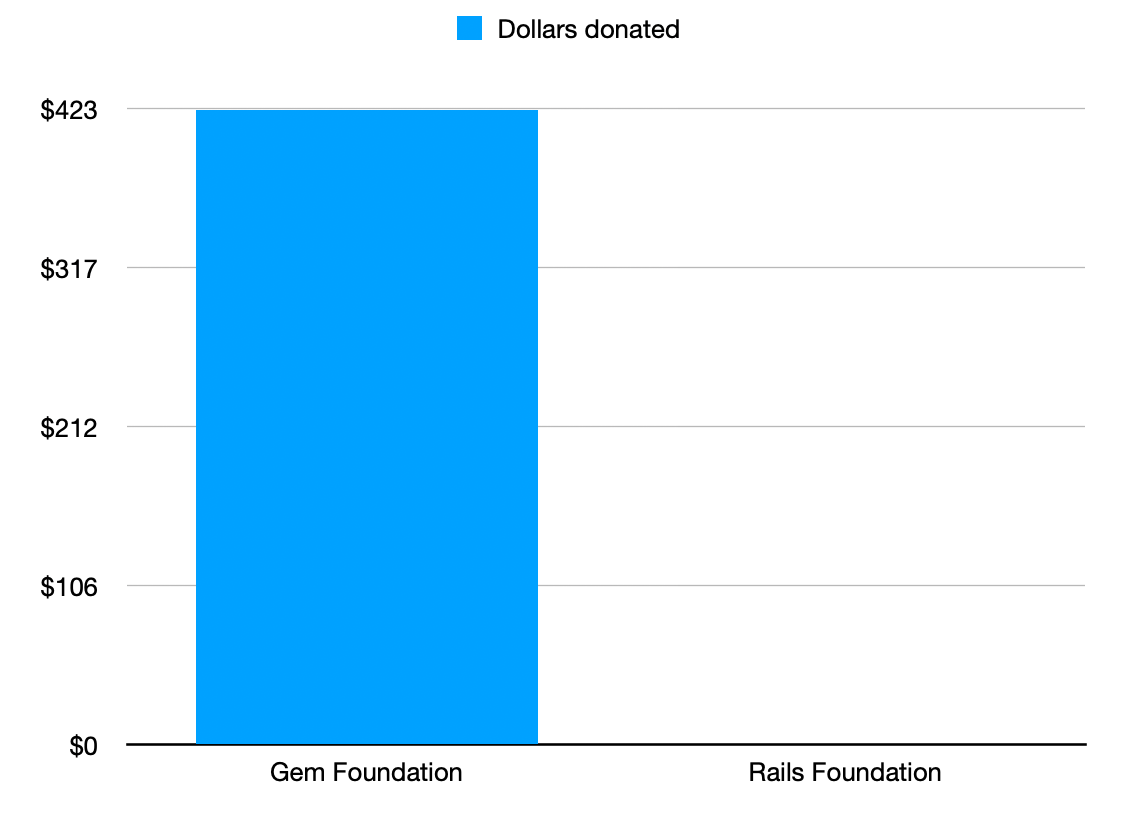
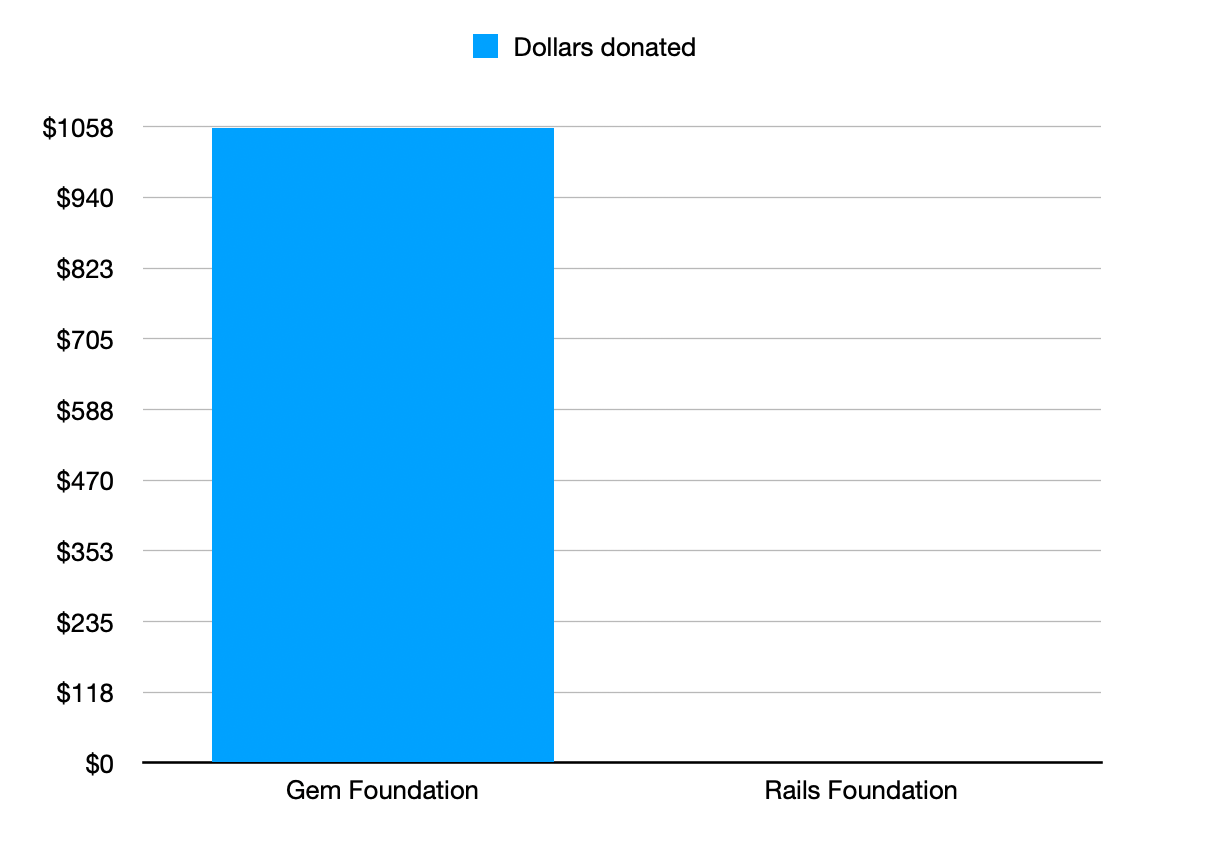
Add post

diff --git a/_site/blog.html b/_site/blog.html
@@ -21,7 +21,7 @@
 
 
   
-    <meta name="publish_date" property="og:publish_date" content="2023-07-28">
+    <meta name="publish_date" property="og:publish_date" content="2023-08-07">
   
 
   
@@ -54,39 +54,37 @@
   <h1 class="text-center">Ryan Bigg</h1>
   <div class='text-center mb-8'>
     <a href="/">&#x27F5; Home</a>
-    <a href="/2023/07/how-to-fix-chromedriver-115-cannot-find-chrome-binary">
-      <h2 class="mt-4 post-title">How to fix: Chromedriver 115, cannot find chrome binary</h2>
+    <a href="/2023/08/zooms-return-to-the-office">
+      <h2 class="mt-4 post-title">Zoom's return to the office</h2>
     </a>
-    <small>28 Jul 2023</small>
+    <small>07 Aug 2023</small>
   </div>
-  <p>Chromedriver v115 was released recently and causes this issue to appear on Macs that use Chromedriver for automated testing.</p>
+  <p>This news <a href="https://nypost.com/2023/08/05/zoom-tells-employees-to-return-to-office-for-work/">about Zoom forcing their employees back into the office for 2 days a week hybrid is bonkers</a>.</p>
 
-<pre><code>unknown error: cannot find Chrome binary
+<p>For an Australian perspective:</p>
 
-Traceback (most recent call last):
-       16: from 15  chromedriver                        0x0000000100df056c chromedriver + 4179308
-       15: from 14  chromedriver                        0x0000000100df0414 chromedriver + 4178964
-       14: from 13  chromedriver                        0x0000000100dacd1c chromedriver + 3902748
-</code></pre>
+<p>In Melbourne, 50 miles would mean people on Phillip Island and Geelong would need to commute into the city, a 2 hour commute one way. Geelong people could take the V/Line, thankfully. Phillip Islanders are shit out of luck and would have to drive in.</p>
 
-<p>This is due to Chromedriver looking for a new binary called “Chrome for Testing”, which was <a href="https://developer.chrome.com/blog/chrome-for-testing/">recently released from the Chrome team</a>.</p>
+<p>In Sydney, 50 miles would mean people in Wentworth Falls, San Remo and Wollongong would also be forced to commute 2 hours into the office as well. Katoomba residents thank your lucky stars, you’re just outside of the magic number.</p>
 
-<p>To fix this bug, you need to <a href="https://googlechromelabs.github.io/chrome-for-testing/#stable">download Chrome for Testing</a>, unzip it and move it into your <code>/Applications</code> directory.</p>
+<p>Two hour commutes! “Give up 8 hours of your week <em>in traffic</em> in the name of <em>synergy</em>.” What baloney.</p>
 
-<p>Mac’s Gatekeeper program will not let you open this executable by default, as it came from a <code>.zip</code> file. To work around that problem, run:</p>
+<hr />
 
-<pre><code>sudo xattr -cr '/Applications/Google Chrome for Testing.app'
-</code></pre>
+<p>I really enjoy the flexibility of working from home. I can put on a load of washing over my lunch break or potter around in the garden when the sun’s out. I can take the dog for a walk or a run to the park. I can take some time out at around 3 and collect my daughter from school without having to commute first back to home and then out again to the school.</p>
 
-<p>This will remove the security restriction that is blocking this application from opening.</p>
+<p>Environmentally: I can control the temperature in my office. There’s nobody walking around behind my monitor or talking loudly on their phone nearby. I have control over my desk and I can set it up however I like without some HR person mandating that I’m sharing it with someone due to space reasons.</p>
 
-<p>Run your test suite again, and it will now work.</p>
+<p>And for all of these reasons, I’m a happy employee. I get my work done, and <em>more of it</em>, because I can choose the conditions in how that work is done. And if I need to <em>synergise</em> with another employee, why there’s Zoom for that.</p>
 
 </article>
 
 <div class="text-center mb-8">
   <h2>In case you missed it...</h2>
   <ul>
+    
+    <li class="mb-4"><a href="/2023/07/how-to-fix-chromedriver-115-cannot-find-chrome-binary">How to fix: Chromedriver 115, cannot find chrome binary</a> <span class="text-gray-400 text-xs">&mdash; 28 Jul 2023</span>
+    </li>
     
     <li class="mb-4"><a href="/2023/06/rails-7-react-typescript-setup">Rails 7, React, TypeScript, ESBuild and View Components</a> <span class="text-gray-400 text-xs">&mdash; 01 Jun 2023</span>
     </li>
@@ -113,9 +111,6 @@ Traceback (most recent call last):
     </li>
     
     <li class="mb-4"><a href="/2022/12/using-a-css-has-selector-to-target-selects-that-have-selected-options">CSS :has selector for selects that have options</a> <span class="text-gray-400 text-xs">&mdash; 02 Dec 2022</span>
-    </li>
-    
-    <li class="mb-4"><a href="/2022/11/hanami-20-thoughts">Hanami 2.0 Thoughts</a> <span class="text-gray-400 text-xs">&mdash; 28 Nov 2022</span>
     </li>
     
   </ul>

diff --git a/_site/2022/11/the-gem-foundation.html b/_site/2022/11/the-gem-foundation.html
@@ -87,7 +87,23 @@
 
 <p><strong>UPDATE #8</strong>: As it’s now the 1st of July, yet another payment of $35USD has been made to the Hanami organisation on GitHub. This brings our donations up to $423USD.</p>
 
-<p>Here’s a helpful chart to track our donations:</p>
+<p><strong>UPDATE #9</strong>: As it’s now the 1st of August, yet another payment of $35USD has been made to the Hanami organisation on GitHub. This brings our donations up to $458USD. But wait, there’s more!</p>
+
+<p><a href="https://www.appsignal.com/">Roy from AppSignal</a> has donated $1,000USD to the Gem Foundation <a href="https://ruby.social/@roy/110654296954182817">to be distributed at my discretion</a>. Thanks a lot Roy!</p>
+
+<p>I’ve divvied out $200 of this to <a href="https://github.com/soutaro/">Soutaro Matsumoto</a> for his work on Steep and Ruby’s RBS type signature library.</p>
+
+<p>A second $200 was going to be sent to Jemma Issroff for her work on Ruby’s YARP (Yet Another Ruby Parser), but she has instead asked the money to go towards <a href="https://www.wnb-rb.dev/">WNB.rb</a>, which is a virtual community for women and non-binary Rubyists.</p>
+
+<p>Another $100 is going towards <a href="https://github.com/sponsors/postmodern">postmodern</a> who has worked on a wealth of tooling for Ruby, including chruby and ruby-install. This donation though is due to their continued work on maintaining the <a href="https://github.com/rubysec/ruby-advisory-db">Ruby Advisory Database</a> and the Bundler Audit project. These projects alert developers to potential security vulnerabilities in their applications, and are incredibly useful!</p>
+
+<p>Another $100 is going towards <a href="https://github.com/ioquatix">Samuel Williams (ioquatix)</a> for his work on Rack 3, and concurrency libraries within Ruby, such as <a href="https://github.com/socketry/async">async</a>. Samuel’s really pushing the concurrency state-of-the-art forward, and for that I am thankful!</p>
+
+<p>That now leaves $400 unallocated. I’ve got a couple of ideas of where this money could go, but I’m going to solicit some opinions of where that money should go by asking a few more people. If you’d like to share your opinion, you can send an email to <a href="mailto:me@ryanbigg.com">me@ryanbigg.com</a> with the subject “Gem Foundation Donation”.</p>
+
+<p>So far, we have donated $1,058USD, with hopefully by next month’s update that being at least $1,500. Unless some other benevolent donor like Roy comes along to sweeten the pot.</p>
+
+<p>As always, here’s a helpful chart to track our donations:</p>
 
 <p><img src="/images/gem-foundation/donations.png" alt="The Gem Foundation donations" /></p>
 

diff --git a/_site/blogography.html b/_site/blogography.html
@@ -21,7 +21,7 @@
 
 
   
-    <meta name="publish_date" property="og:publish_date" content="2023-07-28">
+    <meta name="publish_date" property="og:publish_date" content="2023-08-07">
   
 
   
@@ -55,6 +55,9 @@
     <p>The formatting for earlier posts may be a little skewiff. If you find something like that, <a
         href='http://github.com/radar/ryanbigg.com'>patches are very welcome</a>.</p>
     <ul>
+      
+      <li class="mb-4"><a href="/2023/08/zooms-return-to-the-office">Zoom's return to the office</a> <span class="text-gray-400 text-xs">&mdash; 07 Aug 2023</span>
+      </li>
       
       <li class="mb-4"><a href="/2023/07/how-to-fix-chromedriver-115-cannot-find-chrome-binary">How to fix: Chromedriver 115, cannot find chrome binary</a> <span class="text-gray-400 text-xs">&mdash; 28 Jul 2023</span>
       </li>
@@ -351,9 +354,6 @@
       </li>
       
       <li class="mb-4"><a href="/2012/04/integration-testing-engines">Integration testing engines</a> <span class="text-gray-400 text-xs">&mdash; 26 Apr 2012</span>
-      </li>
-      
-      <li class="mb-4"><a href="/2012/03/polymorphic-routes">Polymorphic Routes</a> <span class="text-gray-400 text-xs">&mdash; 27 Mar 2012</span>
       </li>
       
     </ul>

diff --git a/_site/books.html b/_site/books.html
@@ -21,7 +21,7 @@
 
 
   
-    <meta name="publish_date" property="og:publish_date" content="2023-07-28">
+    <meta name="publish_date" property="og:publish_date" content="2023-08-07">
   
 
   

diff --git a/_site/break.html b/_site/break.html
@@ -21,7 +21,7 @@
 
 
   
-    <meta name="publish_date" property="og:publish_date" content="2023-07-28">
+    <meta name="publish_date" property="og:publish_date" content="2023-08-07">
   
 
   

diff --git a/_site/contact-me.html b/_site/contact-me.html
@@ -21,7 +21,7 @@
 
 
   
-    <meta name="publish_date" property="og:publish_date" content="2023-07-28">
+    <meta name="publish_date" property="og:publish_date" content="2023-08-07">
   
 
   

diff --git a/_site/index.html b/_site/index.html
@@ -21,7 +21,7 @@
 
 
   
-    <meta name="publish_date" property="og:publish_date" content="2023-07-28">
+    <meta name="publish_date" property="og:publish_date" content="2023-08-07">
   
 
   

diff --git a/_site/juniors.html b/_site/juniors.html
@@ -21,7 +21,7 @@
 
 
   
-    <meta name="publish_date" property="og:publish_date" content="2023-07-28">
+    <meta name="publish_date" property="og:publish_date" content="2023-08-07">
   
 
   

diff --git a/_site/juniors/employment.html b/_site/juniors/employment.html
@@ -21,7 +21,7 @@
 
 
   
-    <meta name="publish_date" property="og:publish_date" content="2023-07-28">
+    <meta name="publish_date" property="og:publish_date" content="2023-08-07">
   
 
   

diff --git a/_site/juniors/expectations.html b/_site/juniors/expectations.html
@@ -21,7 +21,7 @@
 
 
   
-    <meta name="publish_date" property="og:publish_date" content="2023-07-28">
+    <meta name="publish_date" property="og:publish_date" content="2023-08-07">
   
 
   

diff --git a/_site/juniors/qa.html b/_site/juniors/qa.html
@@ -21,7 +21,7 @@
 
 
   
-    <meta name="publish_date" property="og:publish_date" content="2023-07-28">
+    <meta name="publish_date" property="og:publish_date" content="2023-08-07">
   
 
   

diff --git a/_site/juniors/skills.html b/_site/juniors/skills.html
@@ -21,7 +21,7 @@
 
 
   
-    <meta name="publish_date" property="og:publish_date" content="2023-07-28">
+    <meta name="publish_date" property="og:publish_date" content="2023-08-07">
   
 
   
